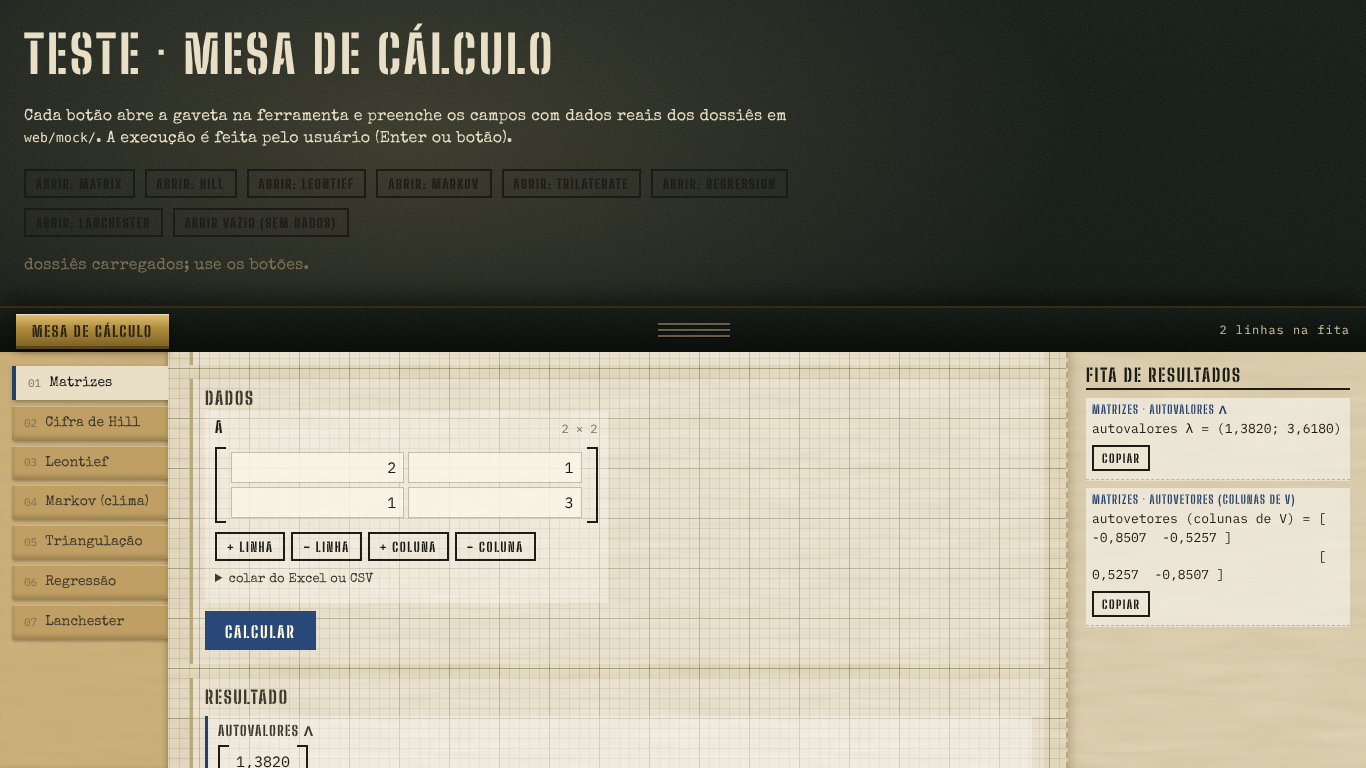
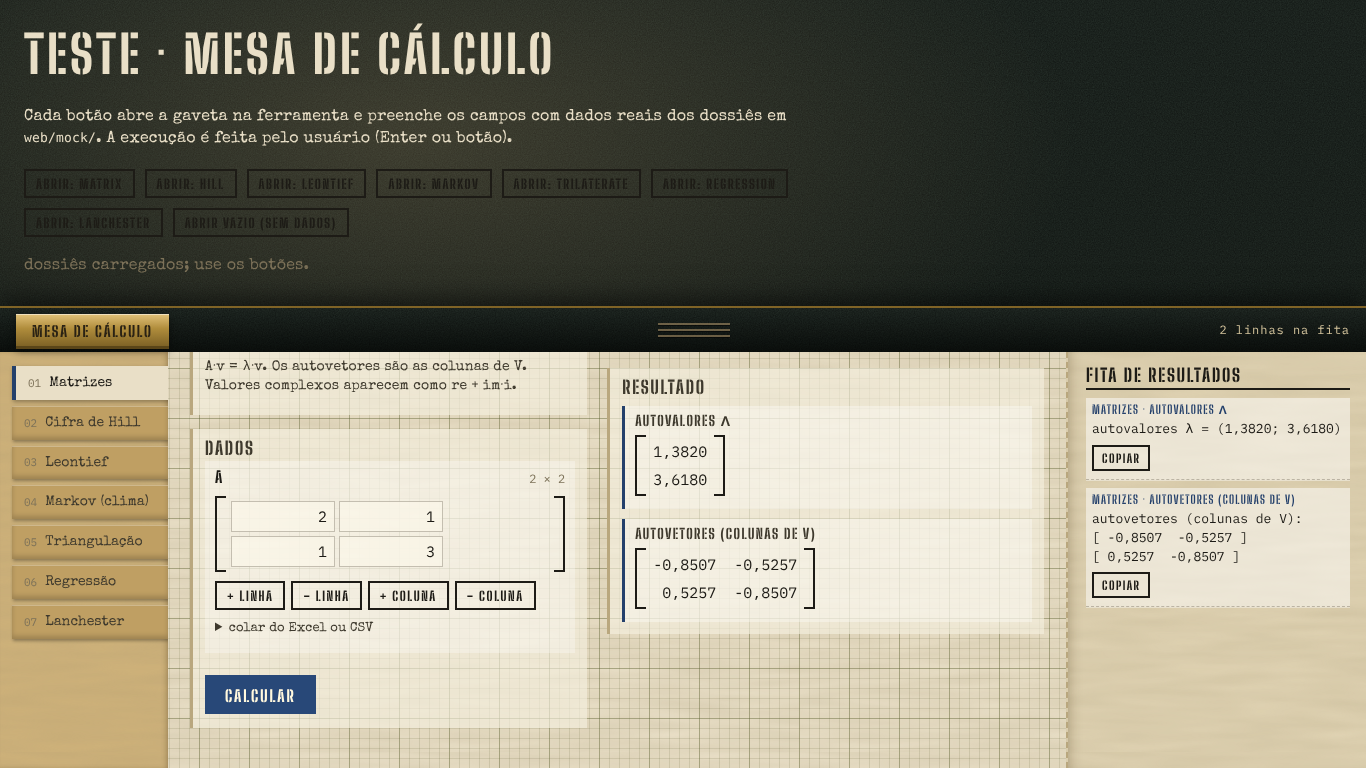
Mesa de Cálculo: 7 ferramentas (matrizes, Hill ℤ37, Leontief, Markov, triangulação, regressão, Lanchester) em gaveta de papel milimetrado

Changed region(s): [[0.123, 0.4688, 0.7687, 1.0], [0.7994, 0.6875, 1.0, 0.8438]]

diff --git a/web/js/calc.js b/web/js/calc.js
@@ -145,12 +145,24 @@ function sec(title, expl, go, ...kids) {
   return el;
 }
 
+/** Seção de resultado: vai para a coluna lateral do painel. */
+function outSec(out) {
+  const el = sec("Resultado", null, null, out);
+  el.classList.add("calc-sec--out");
+  return el;
+}
+
+/** Painel: entradas à esquerda; seções de resultado (calc-sec--out) à direita, quando existirem. */
 function panelEl(tool, title, expl, ...kids) {
-  return h("article", { class: "calc-panel", "data-tool": tool, hidden: true },
+  const flat = kids.flat(Infinity).filter(Boolean);
+  const side = flat.filter((k) => k.classList && k.classList.contains("calc-sec--out"));
+  const main = flat.filter((k) => !side.includes(k));
+  return h("article", { class: `calc-panel${side.length ? "" : " calc-panel--single"}`, "data-tool": tool, hidden: true },
     h("header", { class: "calc-panel__head" },
       h("h2", { class: "calc-panel__title stencil" }, title),
       h("p", { class: "calc-panel__expl typed" }, expl)),
-    ...kids);
+    h("div", { class: "calc-panel__main" }, main),
+    side.length ? h("div", { class: "calc-panel__side" }, side) : null);
 }
 
 /* ------------------------------------------------------------ números e texto */
@@ -195,7 +207,7 @@ function parseNum(raw) {
  * Separador: tab, depois ponto e vírgula, depois vírgula; sem nenhum, espaços.
  */
 function splitTable(text) {
-  const lines = String(text).replace(/\r/g, "").split("\n").filter((l) => l.trim() !== "");
+  const lines = String(text).replace(/^\uFEFF/, "").replace(/\r/g, "").split("\n").filter((l) => l.trim() !== "");
   const sep = lines.some((l) => l.includes("\t")) ? "\t"
     : lines.some((l) => l.includes(";")) ? ";"
       : lines.some((l) => l.includes(",")) ? ","
@@ -290,7 +302,7 @@ function matrixEditor(o = {}) {
       if (labeled) kids.push(h("span", { class: "calc-ed__lbl" }, o.rowLabel(i, R)));
       for (let j = 0; j < C; j++) kids.push(cell(i, j));
     }
-    const cols = `${labeled ? "max-content " : ""}repeat(${C}, minmax(0, 1fr))`;
+    const cols = `${labeled ? "max-content " : ""}repeat(${C}, minmax(60px, 104px))`;
     mx.replaceChildren(h("div", { class: "calc-ed__grid", style: `grid-template-columns:${cols}` }, kids));
   }
 
@@ -465,8 +477,7 @@ function valueBlock(label, v, kind, opts = {}) {
     return block(label, vecNode(v, { labels, complex }), lines, items.join("\n"), use);
   }
   const txt = v.map((row) => row.map((x) => fmtCell(x, complex)));
-  const pad = " ".repeat(label.length + 3);
-  const lines = txt.map((r, i) => (i === 0 ? `${label} = ` : pad) + "[ " + r.join("  ") + " ]");
+  const lines = [`${label}:`, ...txt.map((r) => "[ " + r.join("  ") + " ]")];
   return block(label, matNode(v, { complex, rowLabels, colLabels }), lines, txt.map((r) => r.join("\t")).join("\n"), use);
 }
 
@@ -746,7 +757,7 @@ function matrixPanel(ctx) {
       sec("Dados", null, run1.go,
         h("div", { class: "calc-cols" }, A.el, h("div", { class: "calc-stack" }, B.el, b.el, kField)),
         h("div", { class: "calc-actions" }, run1.el)),
-      sec("Resultado", null, null, out)),
+      outSec(out)),
     prefill(p) {
       if (p.op && OPS.some((o) => o[0] === p.op)) sel.value = p.op;
       if (p.A) A.setNumbers(p.A);
@@ -879,7 +890,7 @@ function leontiefPanel(ctx) {
       sec("Demanda e produção", "d: demanda final, para obter x necessário. x: produção bruta, para obter a produção líquida (I − A)·x e a mão de obra L·x.", run1.go,
         h("div", { class: "calc-cols" }, d.el, x.el, L.el),
         h("div", { class: "calc-actions" }, run1.el)),
-      sec("Resultado", null, null, out)),
+      outSec(out)),
     prefill(p) {
       if (p.Z) Z.setNumbers(p.Z);
       if (p.X) X.setNumbers(p.X);
@@ -962,7 +973,7 @@ function markovPanel(ctx) {
       sec("Previsão", "Distribuição após k passos, a partir do estado atual: linha de P^k.", run1.go,
         h("div", { class: "calc-cols" }, field("estado atual", stateSel), field("passos k", kIn)),
         h("div", { class: "calc-actions" }, run1.el)),
-      sec("Resultado", null, null, out)),
+      outSec(out)),
     prefill(p) {
       if (p.sequence) seqTA.value = p.sequence.join(", ");
       if (p.P) P.setNumbers(p.P);
@@ -1035,7 +1046,7 @@ function trilaterPanel(ctx) {
         h("details", { class: "calc-paste" }, h("summary", {}, "colar leituras do Excel ou CSV"), readings, applyReadings)),
       sec("Posição", null, run1.go,
         h("div", { class: "calc-actions" }, run1.el)),
-      sec("Resultado", null, null, out)),
+      outSec(out)),
     prefill(p) {
       if (!Array.isArray(p.stations) || !Array.isArray(p.distances)) throw calcErr("Prefill de triangulação: informe stations e distances.");
       rows = p.stations.map((s, i) => ({ x: fInput(s[0]), y: fInput(s[1]), d: fInput(p.distances[i]) }));
@@ -1135,7 +1146,7 @@ function regressionPanel(ctx) {
           h("div", {}, h("span", { class: "calc-field__lbl" }, "alvo (y)"), targetBox),
           h("div", {}, h("span", { class: "calc-field__lbl" }, "explicativas (x)"), featBox)),
         h("div", { class: "calc-actions" }, run1.el)),
-      sec("Resultado", null, null, out)),
+      outSec(out)),
     prefill(p) {
       let d;
       if (Array.isArray(p.rows)) d = dataFromRows(p.rows);
@@ -1191,7 +1202,7 @@ function lanchesterPanel(ctx) {
       sec("Parâmetros", null, run1.go,
         h("div", { class: "calc-cols calc-cols--5" }, ...Object.keys(LABELS).map((k) => field(LABELS[k], inputs[k]))),
         h("div", { class: "calc-actions" }, run1.el)),
-      sec("Resultado", null, null, out)),
+      outSec(out)),
     prefill(p) {
       for (const k of Object.keys(LABELS)) {
         if (p[k] !== undefined && p[k] !== null) inputs[k].value = fInput(Number(p[k]));

diff --git a/web/css/calc.css b/web/css/calc.css
@@ -28,8 +28,8 @@
   padding: 0 var(--gutter);
   background:
     var(--noise),
-    linear-gradient(#1f2822, var(--felt-edge));
-  border-top: 2px solid #3a2a10;
+    linear-gradient(var(--felt-2), var(--felt-edge));
+  border-top: 2px solid var(--brass-2);
 }
 .calc-drawer .calc-handle__btn { padding: 8px 16px 6px; font-size: 15px; white-space: nowrap; }
 .calc-grip {
@@ -80,6 +80,13 @@
 
 /* bancada */
 .calc-bench { min-width: 0; min-height: 0; overflow-y: auto; padding: 16px 22px 26px; }
+/* painel: entradas à esquerda, resultados à direita */
+.calc-panel { display: grid; grid-template-columns: minmax(0, 1fr) minmax(0, 1.1fr); column-gap: 20px; align-items: start; }
+.calc-panel--single { grid-template-columns: minmax(0, 1fr); }
+.calc-panel__head { grid-column: 1 / -1; }
+.calc-panel__main, .calc-panel__side { min-width: 0; }
+.calc-panel__side { position: sticky; top: 0; }
+.calc-sec--out { margin-top: 0; background: rgba(255, 255, 255, .5); }
 .calc-panel__head { border-bottom: 2px solid var(--ink); padding-bottom: 6px; margin-bottom: 12px; }
 .calc-panel__title {
   font-family: var(--f-stencil); font-weight: 800; font-size: 28px; line-height: 1.02;
@@ -87,13 +94,13 @@
 }
 .calc-panel__expl { margin: 0; font-family: var(--f-typed); font-size: 14px; color: var(--ink-soft); max-width: 92ch; }
 
-.calc-sec { margin: 0 0 14px; padding: 10px 12px 12px; background: rgba(255, 255, 255, .24); border-left: 3px solid var(--paper-edge); }
+.calc-sec { margin: 0 0 14px; padding: 10px 12px 12px; background: rgba(245, 240, 224, .62); border-left: 3px solid var(--paper-edge); }
 .calc-sec__title { margin: 0 0 4px; font-family: var(--f-stencil); font-weight: 800; font-size: 15px; letter-spacing: .1em; text-transform: uppercase; color: var(--ink-soft); }
 .calc-sec__expl { margin: 0 0 8px; font-family: var(--f-typed); font-size: 13px; color: var(--ink-faint); }
 .calc-expl { margin: 6px 0; font-family: var(--f-typed); font-size: 14px; color: var(--ink-soft); max-width: 92ch; }
 .calc-note { margin: 6px 0; font-family: var(--f-typed); font-size: 14px; color: var(--ink); }
 .calc-actions { display: flex; gap: 10px; align-items: center; flex-wrap: wrap; margin: 8px 0 2px; }
-.calc-cols { display: grid; grid-template-columns: repeat(auto-fit, minmax(230px, 1fr)); gap: 14px 22px; align-items: start; min-width: 0; }
+.calc-cols { display: grid; grid-template-columns: repeat(auto-fit, minmax(210px, 1fr)); gap: 14px 22px; align-items: start; min-width: 0; }
 .calc-cols--5 { grid-template-columns: repeat(auto-fit, minmax(150px, 1fr)); }
 .calc-stack { display: grid; gap: 12px; min-width: 0; }
 .calc-out { margin-top: 10px; display: grid; gap: 10px; min-width: 0; }
@@ -262,6 +269,10 @@
 /* ------------------------------------------------------------ telas estreitas */
 @media (max-width: 960px) {
   .calc-body { grid-template-columns: 140px minmax(0, 1fr) 240px; }
+}
+@media (max-width: 1080px) {
+  .calc-panel { grid-template-columns: minmax(0, 1fr); }
+  .calc-panel__side { position: static; }
 }
 @media (max-width: 760px) {
   .calc-body { grid-template-columns: minmax(0, 1fr); grid-template-rows: auto minmax(0, 1fr) minmax(0, 34%); }

diff --git a/web/js/qg/common.js b/web/js/qg/common.js
@@ -28,7 +28,7 @@ export const CIPHER_CRIB = "URGENTE ";
 const nfCache = new Map();
 function nf(max, min) {
   const key = `${max}|${min}`;
-  if (!nfCache.has(key)) nfCache.set(key, new Intl.NumberFormat("pt-BR", { minimumFractionDigits: min, maximumFractionDigits: max }));
+  if (!nfCache.has(key)) nfCache.set(key, new Intl.NumberFormat("pt-BR", { minimumFractionDigits: min, maximumFractionDigits: max, useGrouping: false }));
   return nfCache.get(key);
 }
 /** fmt(21.5) -> "21,5"; fmt(3.14159, 2) -> "3,14"; null/NaN -> "—" */

diff --git a/web/js/qg/governo.js b/web/js/qg/governo.js
@@ -148,6 +148,10 @@ export function mountGoverno(root, ctx) {
       h("p", { class: "caps faint" }, "Pactos de não agressão"),
       pactList));
 
+  // padrões do regulamento: ração normal e jornada de 8 horas
+  orderBody.querySelector('input[name="gov-racao"][value="0"]').checked = true;
+  orderBody.querySelector('input[name="gov-horas"][value="8"]').checked = true;
+
   const sheet = orderSheet({
     ctx, section: "governo", body: orderBody,
     getPayload: () => {
